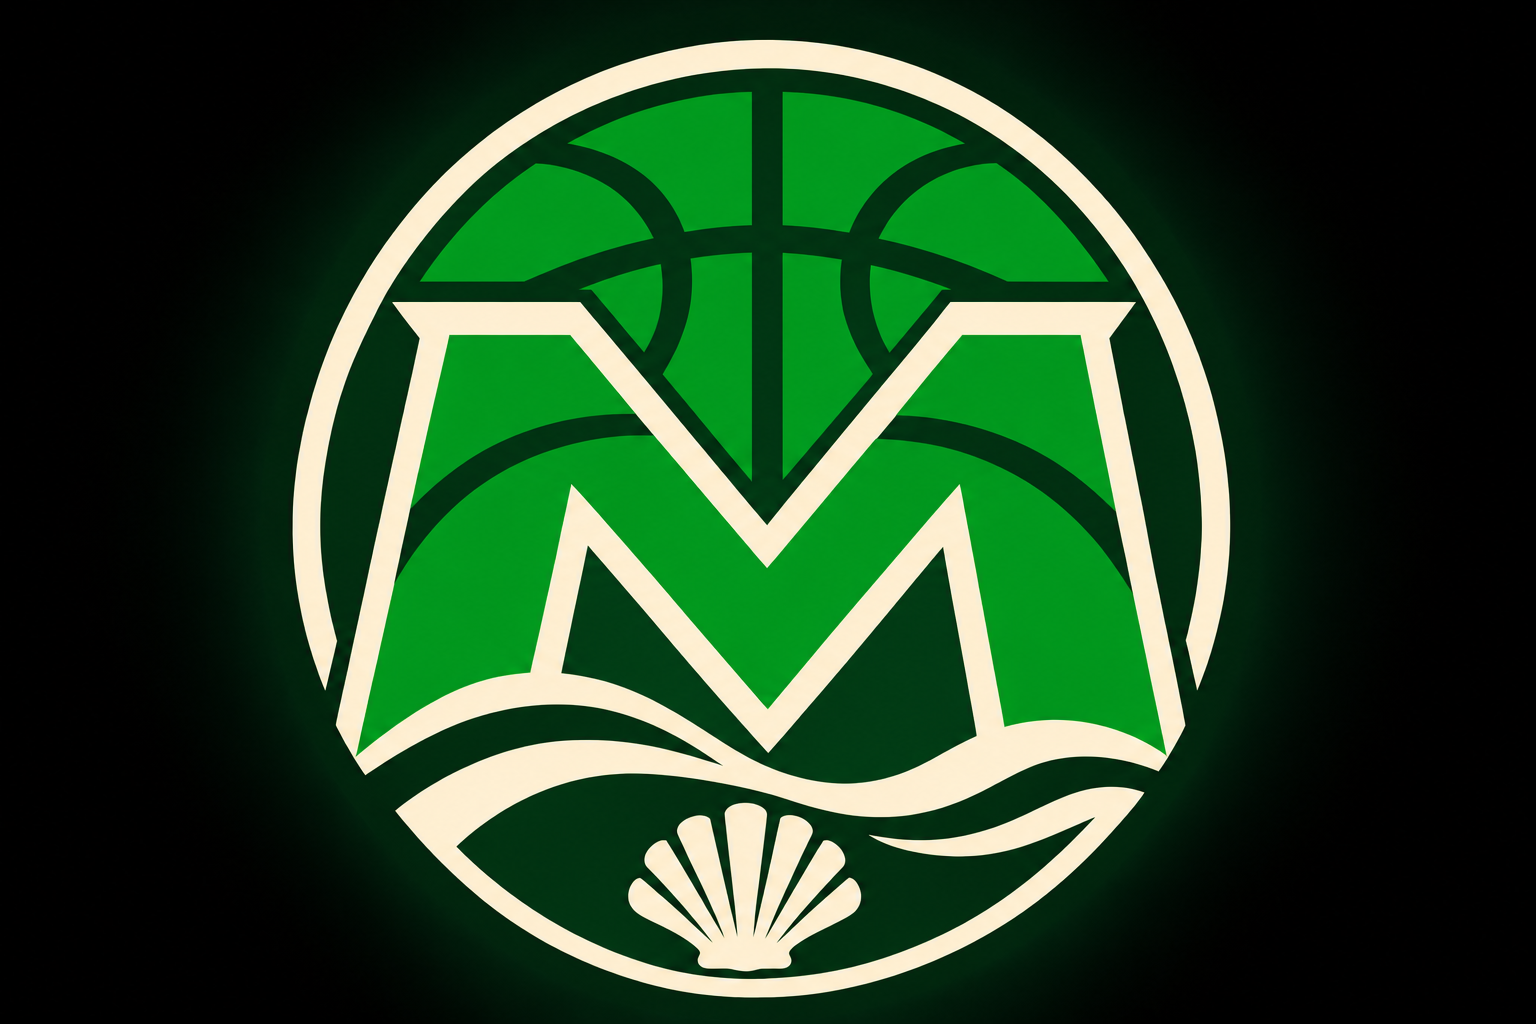
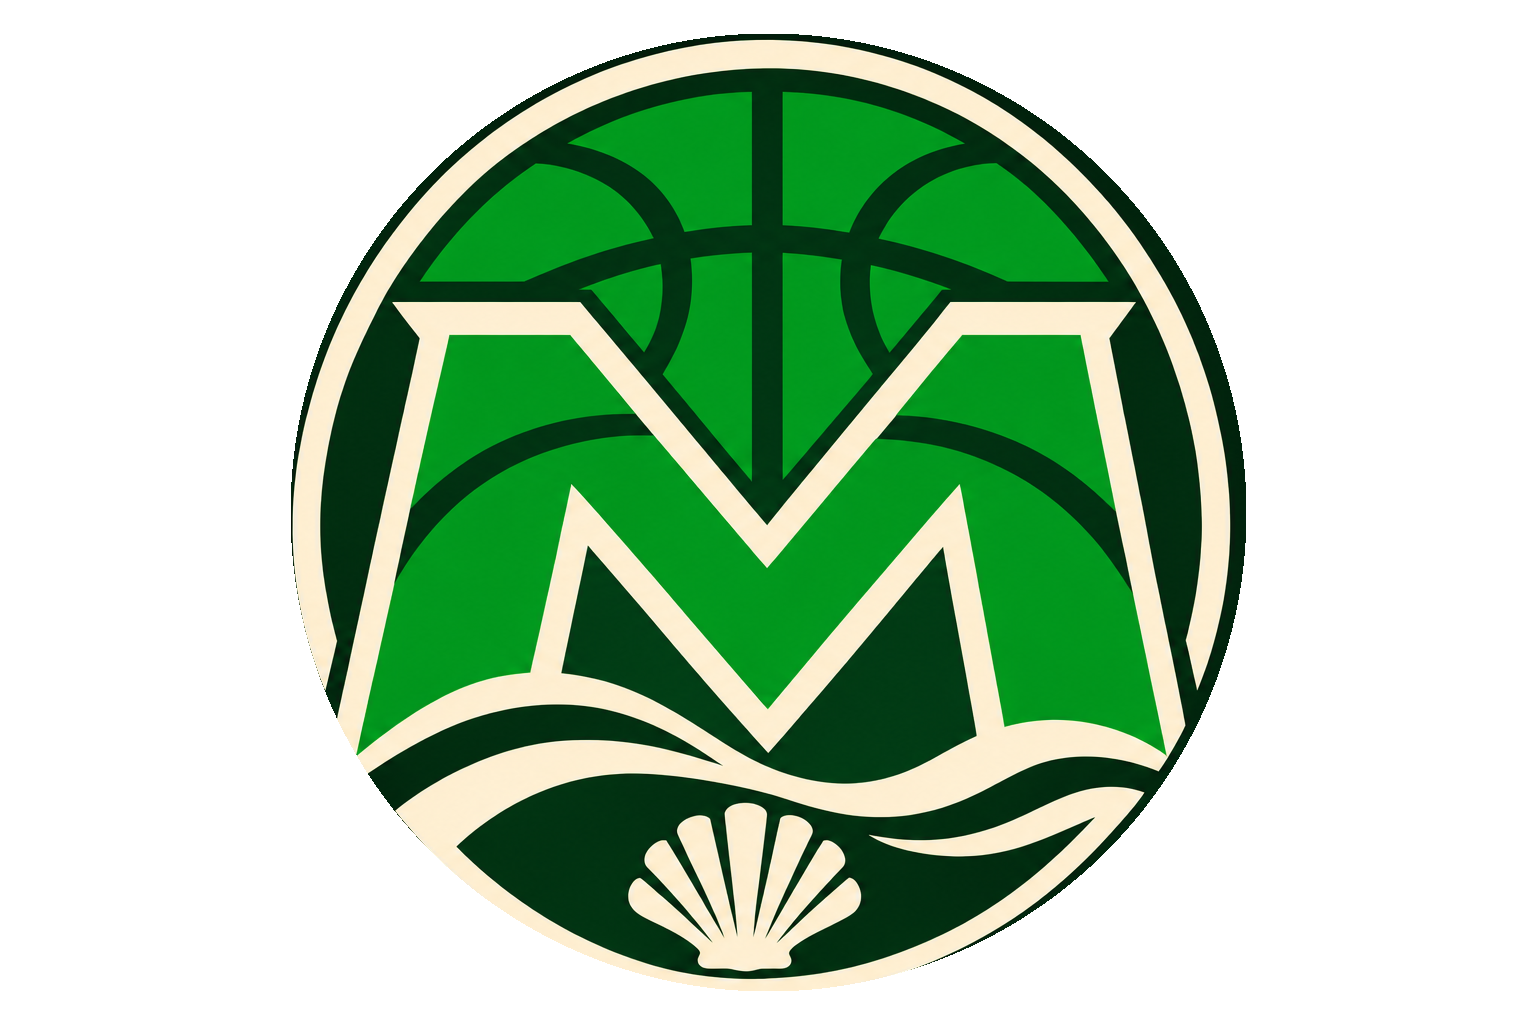
Update Site source

diff --git a/dist/styles.css b/dist/styles.css
@@ -7,7 +7,7 @@ a{text-decoration:none;color:inherit}
 .topline span{height:3px;width:3px;border-radius:99px;background:#fff}
 .site-header{height:82px;padding:0 clamp(22px,5vw,80px);display:flex;align-items:center;justify-content:space-between;background:var(--paper);position:relative;z-index:5}
 .brand{display:flex;align-items:center;gap:10px;font-family:'Barlow Condensed',sans-serif;line-height:.73}
-.brand img{width:43px;height:43px;object-fit:contain;mix-blend-mode:multiply}
+.brand img{width:43px;height:43px;object-fit:contain}
 .brand span{display:flex;flex-direction:column}
 .brand strong{font-size:13px;letter-spacing:.1em}
 .brand b{font-size:26px;letter-spacing:-.025em}
@@ -57,7 +57,7 @@ nav a:hover:after{width:100%}
 .poster-type h2 span{color:var(--cream)}
 .poster-date{font:700 13px 'Barlow Condensed',sans-serif;letter-spacing:.13em}
 .poster-circle{position:absolute;width:470px;height:470px;right:13vw;top:-40px;border-radius:50%;background:var(--cream);display:grid;place-items:center}
-.poster-circle img{width:350px;height:350px;object-fit:contain;mix-blend-mode:multiply}
+.poster-circle img{width:350px;height:350px;object-fit:contain}
 .poster-note{position:absolute;right:5vw;bottom:35px;line-height:1.25}
 .poster-note b{font:900 47px 'Barlow Condensed',sans-serif;line-height:.7}
 .registration{background:#003b17;color:var(--cream)}
